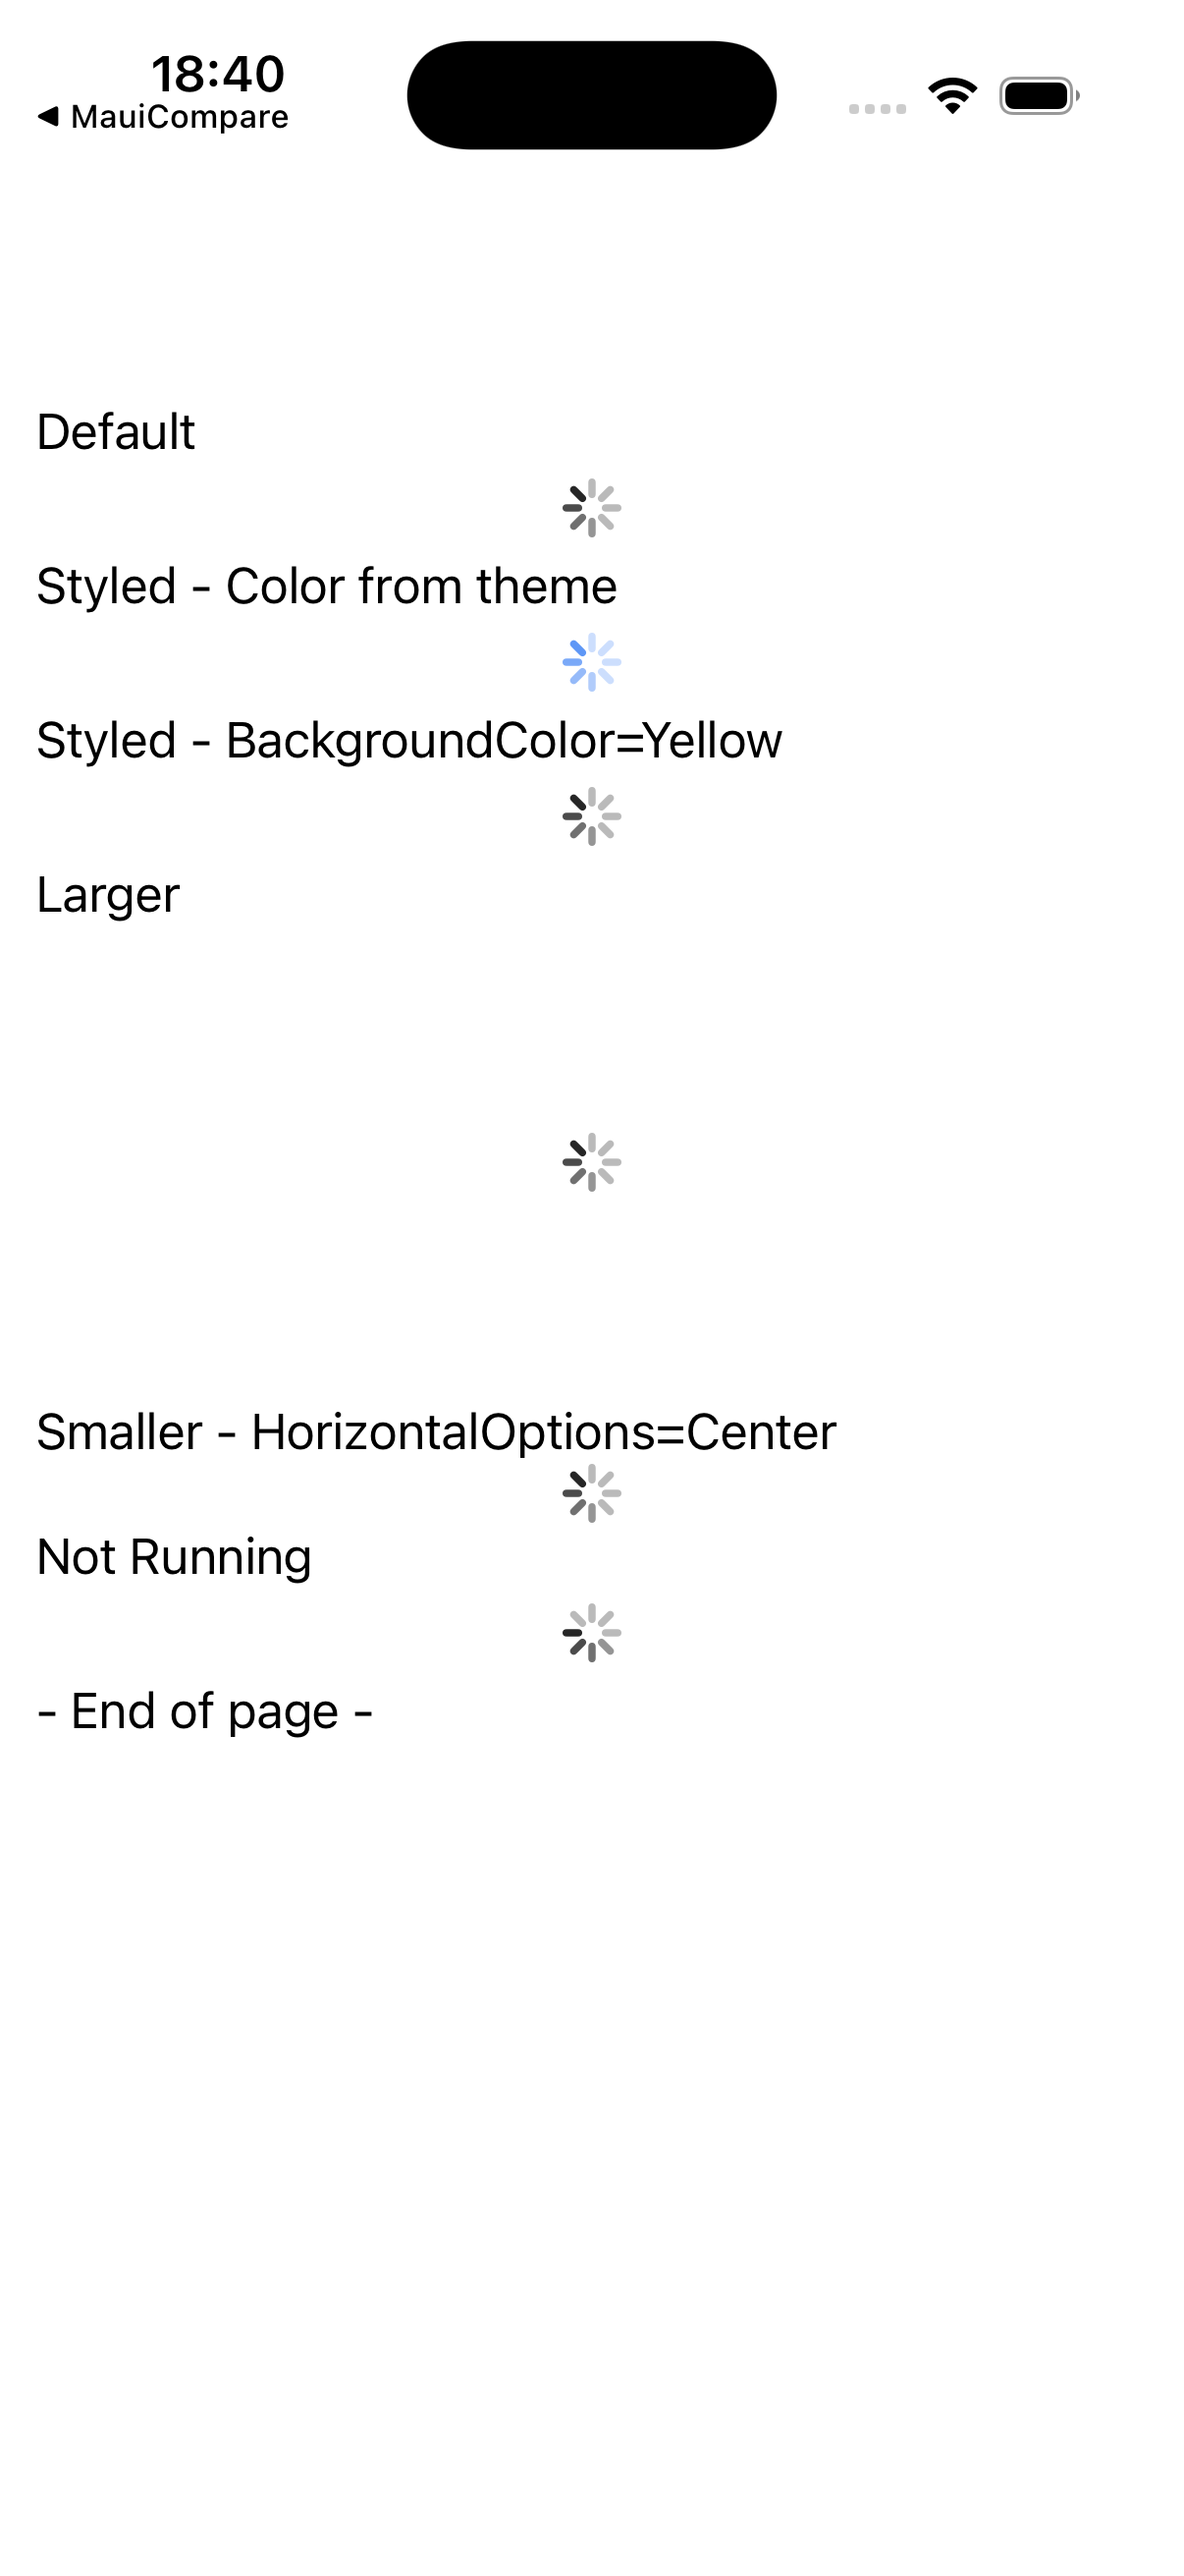
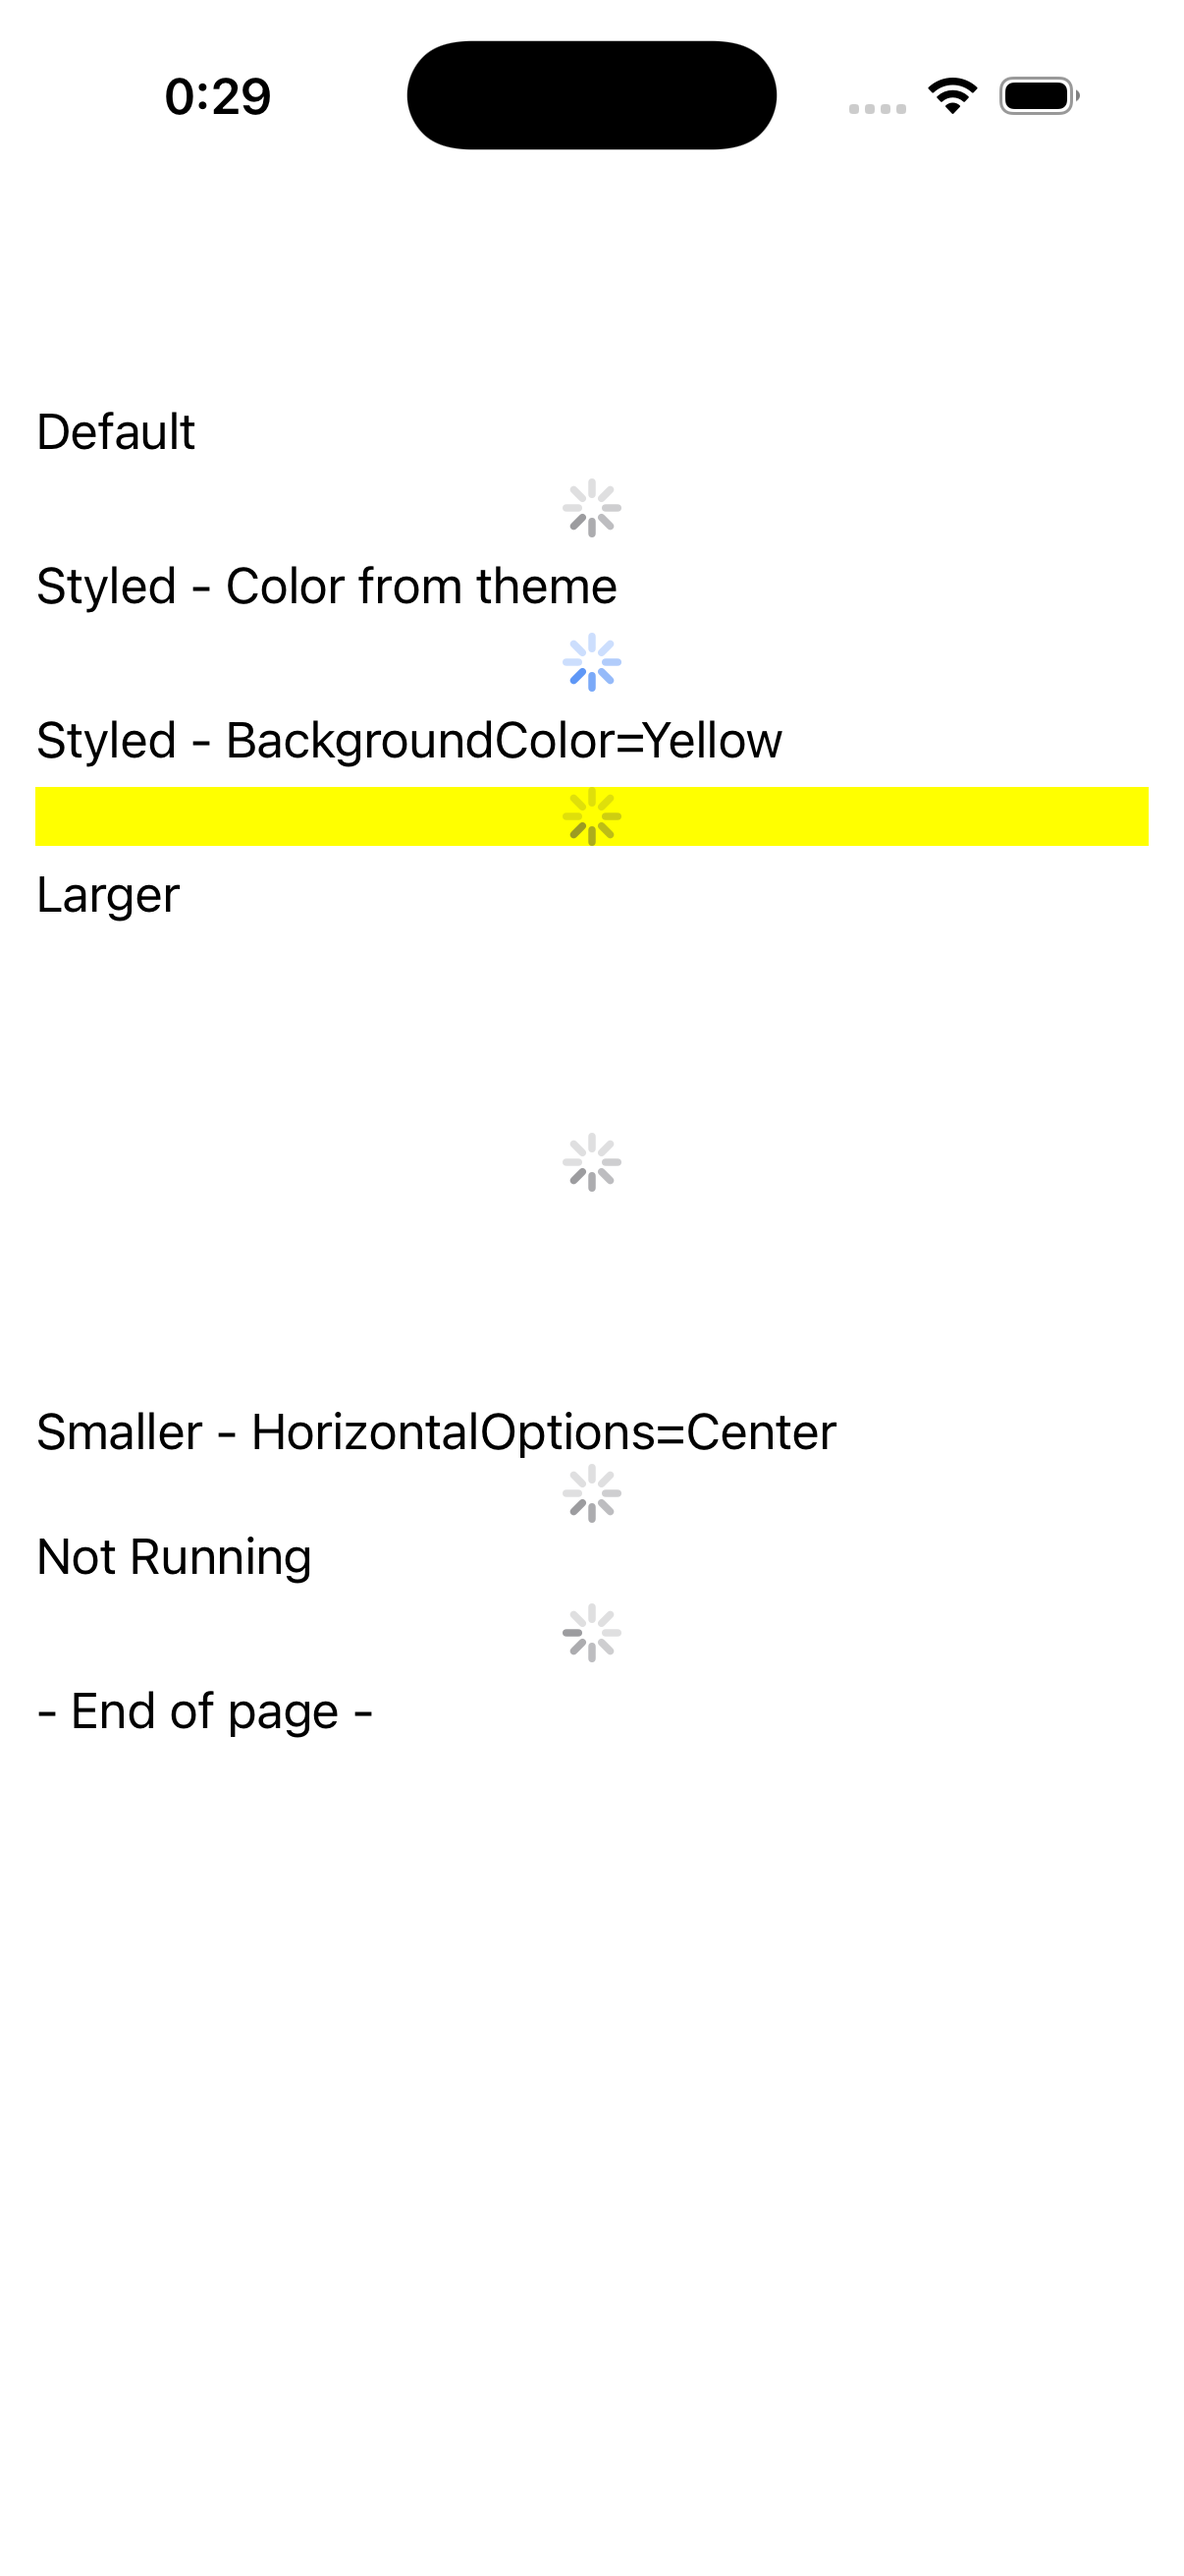
fix(ios,parity): ActivityIndicator default spinner color + BackgroundColor band
example 15/172 (activity_indicator): was nearly blank on dark — only the explicitly-
colored spinner showed. Two fixes:

1. Unset Color forced to to_ui_color(default) — a transparent tint that made the
   Default/Larger/Smaller spinners invisible. Now unset -> nil, restoring the
   UIActivityIndicatorView native default (a dynamic system color, visible light+dark).
2. Deferred update_background -> no BackgroundColor band. Added it (same pattern):
   apply_background paints the band; the new MauiIosActivityIndicator.layoutSubviews
   re-sizes a gradient fill. BackgroundColor=Yellow now renders as a full-width band.

Verified: all spinners + the yellow band render matching MAUI both themes (sim-
captured); 6 activity ios tests pass; clang-tidy 0. Tracker: activity_indicator
diff->minor (15 minor).

diff --git a/port/cpp/src/platform/ios/activity_indicator_handler.mm b/port/cpp/src/platform/ios/activity_indicator_handler.mm
@@ -19,6 +19,7 @@
 #include <string_view>
 
 #include "ios_conversions.hpp"
+#include "ios_visual_ops.hpp"
 #include "maui/core/activity_indicator_handler.hpp"
 #include "maui/core/i_activity_indicator.hpp"
 #include "maui/core/visibility.hpp"
@@ -34,6 +35,22 @@ namespace
 
     using maui::platform::ios::to_ui_color;
 } // namespace
+
+// MauiIosActivityIndicator — the UIActivityIndicatorView the handler presents. Its layoutSubviews override
+// re-sizes any gradient/image background sublayer apply_background installed (a solid BackgroundColor needs
+// no resize — it is the backing layer's backgroundColor), so a Background brush fills the band behind the
+// spinner and tracks bounds. apply_background runs before arrange, when bounds is zero, so the hook is
+// needed for gradients.
+@interface MauiIosActivityIndicator : UIActivityIndicatorView
+@end
+
+@implementation MauiIosActivityIndicator
+- (void)layoutSubviews
+{
+    [super layoutSubviews];
+    maui::platform::ios::resize_background_layers((__bridge void*)self);
+}
+@end
 
 namespace maui::core
 {
@@ -66,12 +83,20 @@ namespace maui::core
         as_spinner(native).accessibilityIdentifier = raw != nil ? raw : @"";
     }
 
+    void activity_indicator_platform::update_background(const maui::graphics::paint* value)
+    {
+        // BackgroundColor / Background brush fills the band behind the spinner (it has no bezel): the shared
+        // helper paints a solid color onto the backing layer or installs a gradient/image sublayer
+        // (MauiIosActivityIndicator.layoutSubviews keeps it sized to bounds). A null paint clears it.
+        maui::platform::ios::apply_background(native, value);
+    }
+
     std::unique_ptr<activity_indicator_platform> activity_indicator_handler::create_platform_view()
     {
         auto platform = std::make_unique<activity_indicator_platform>();
         // ActivityIndicatorHandler.iOS.CreatePlatformView: the Medium style (the >= 13 branch).
         UIActivityIndicatorView* const native =
-            [[UIActivityIndicatorView alloc] initWithActivityIndicatorStyle:UIActivityIndicatorViewStyleMedium];
+            [[MauiIosActivityIndicator alloc] initWithActivityIndicatorStyle:UIActivityIndicatorViewStyleMedium];
         platform->native = (__bridge_retained void*)native; // the void* slot owns one reference
         return platform;
     }
@@ -106,8 +131,12 @@ namespace maui::core
     {
         if (auto* platform = handler.typed_platform_view())
         {
-            // ActivityIndicatorExtensions.UpdateColor (the nullable collapse — see the header).
-            as_spinner(platform->native).color = to_ui_color(view.color());
+            // ActivityIndicatorExtensions.UpdateColor: an unset (default-constructed) Color must leave the
+            // UIActivityIndicatorView's native default tint (a dynamic system color, visible on light AND
+            // dark), NOT a transparent fill — to_ui_color(unset) is a clear color that makes the spinner
+            // invisible. nil restores the default (the C# null branch leaves the platform default).
+            const maui::graphics::color color = view.color();
+            as_spinner(platform->native).color = color != maui::graphics::color{} ? to_ui_color(color) : nil;
         }
     }
 

diff --git a/port/cpp/include/maui/core/activity_indicator_handler.hpp b/port/cpp/include/maui/core/activity_indicator_handler.hpp
@@ -71,6 +71,10 @@ namespace maui::core
         void update_visibility(maui::core::visibility value) override;
         void update_opacity(double value) override;
         void update_automation_id(std::string_view value) override;
+        // BackgroundColor / Background brush IS pushed to the UIActivityIndicatorView — the band behind the
+        // spinner (the shared apply_background; MauiIosActivityIndicator.layoutSubviews keeps a gradient
+        // fill sized to bounds).
+        void update_background(const maui::graphics::paint* value) override;
 #endif
     };
 

diff --git a/port/cpp/docs/comparison/README.md b/port/cpp/docs/comparison/README.md
@@ -2,7 +2,7 @@
 
 Theme-matched iOS comparison: each page rendered by **real .NET MAUI** vs the **C++ port**, on the same iPhone 17 simulator, compared **light-vs-light** and **dark-vs-dark**. Both stacks render native-default controls + the system font (the C# app's `dotnet new maui` default `Styles.xaml` + OpenSans are stripped; appearance forced via `MAUI_THEME` / `MAUI_APPEARANCE`). Goal: pixel-perfect parity, fixed example-by-example.
 
-**Progress: 0 / 172 🟢 matched** · 14 🟡 minor · 53 🔴 diff · 105 ⬜ pending
+**Progress: 0 / 172 🟢 matched** · 15 🟡 minor · 52 🔴 diff · 105 ⬜ pending
 
 Status legend: 🟢 pixel-match (both themes) · 🟡 minor diff · 🔴 notable diff to fix · ⬜ not yet reviewed. Per-theme verdicts in `parity_status.json`.
 
@@ -26,7 +26,7 @@ Rows are in **fix order** (top → bottom): foundational single controls first (
 | 12 | Switch | 🟡<br>L:minor<br>D:minor | ![](csharp_ios_light/switch.png) | ![](cpp_ios_light/switch.png) | ![](csharp_ios_dark/switch.png) | ![](cpp_ios_dark/switch.png) |
 | 13 | Check Box | 🟡<br>L:minor<br>D:minor | ![](csharp_ios_light/check_box.png) | ![](cpp_ios_light/check_box.png) | ![](csharp_ios_dark/check_box.png) | ![](cpp_ios_dark/check_box.png) |
 | 14 | Progress Bar | 🟡<br>L:minor<br>D:minor | ![](csharp_ios_light/progress_bar.png) | ![](cpp_ios_light/progress_bar.png) | ![](csharp_ios_dark/progress_bar.png) | ![](cpp_ios_dark/progress_bar.png) |
-| 15 | Activity Indicator | 🔴<br>L:diff<br>D:blank | ![](csharp_ios_light/activity_indicator.png) | ![](cpp_ios_light/activity_indicator.png) | ![](csharp_ios_dark/activity_indicator.png) | ![](cpp_ios_dark/activity_indicator.png) |
+| 15 | Activity Indicator | 🟡<br>L:minor<br>D:minor | ![](csharp_ios_light/activity_indicator.png) | ![](cpp_ios_light/activity_indicator.png) | ![](csharp_ios_dark/activity_indicator.png) | ![](cpp_ios_dark/activity_indicator.png) |
 | 16 | Indicator | ⬜<br>L:pending<br>D:pending | ![](csharp_ios_light/indicator.png) | ![](cpp_ios_light/indicator.png) | ![](csharp_ios_dark/indicator.png) | ![](cpp_ios_dark/indicator.png) |
 | 17 | Image | ⬜<br>L:pending<br>D:pending | ![](csharp_ios_light/image.png) | ![](cpp_ios_light/image.png) | ![](csharp_ios_dark/image.png) | ![](cpp_ios_dark/image.png) |
 | 18 | Image Button | ⬜<br>L:pending<br>D:pending | ![](csharp_ios_light/image_button.png) | ![](cpp_ios_light/image_button.png) | ![](csharp_ios_dark/image_button.png) | ![](cpp_ios_dark/image_button.png) |
